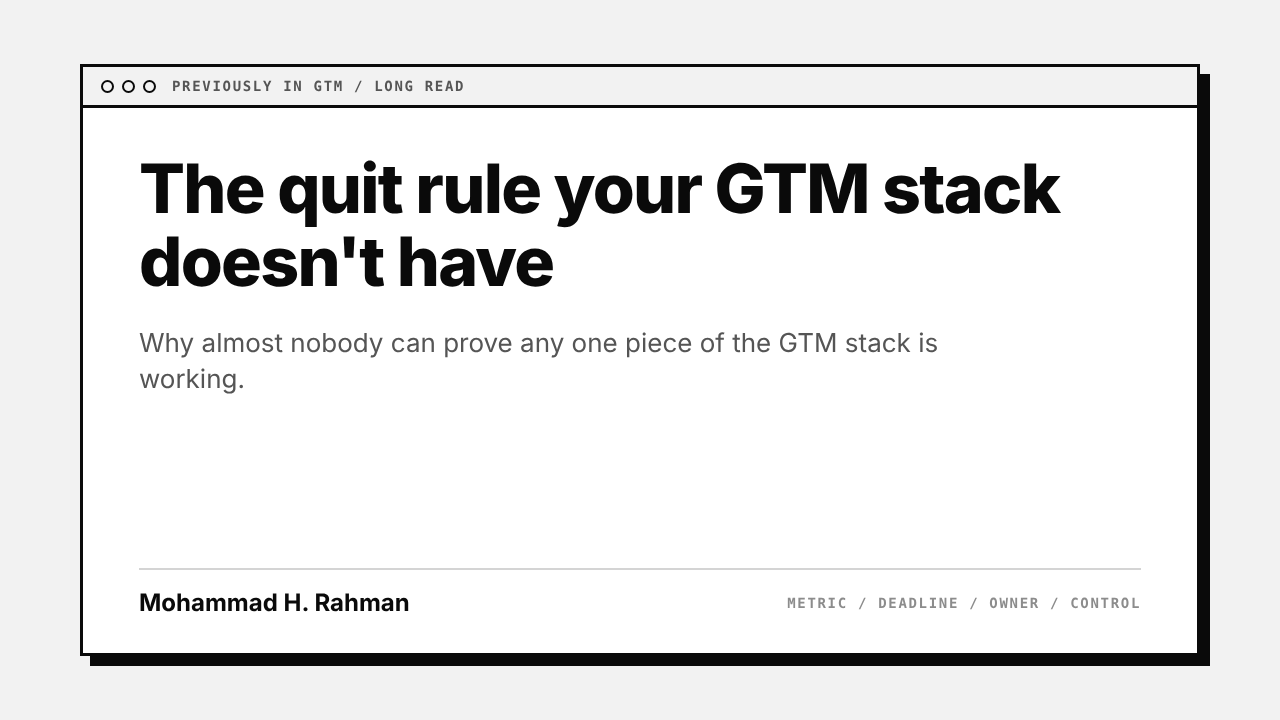
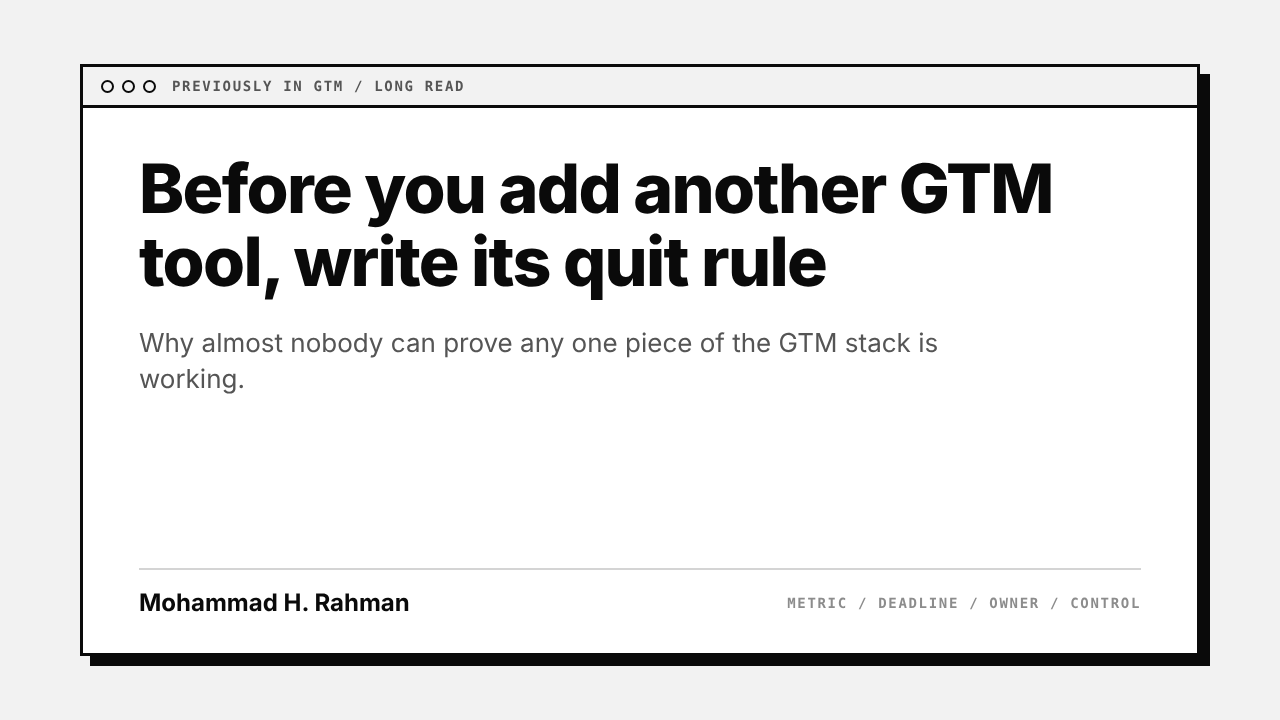
Retitle 26 Nov 2026 draft for clarity
Changed the headline from "The quit rule your GTM stack doesn't have"
to "Before you add another GTM tool, write its quit rule" so the topic
is clear at a glance, per Mohammad's request. Updated the article,
LinkedIn HTML, issue.json, image manifest and review notes, and
rebuilt the header cover and front cover PNGs.

Claude-Session: https://claude.ai/code/session_01MJgHR7mdmb77gDGypKETgY

Changed region(s): [[0.0938, 0.2139, 0.8438, 0.4278]]

diff --git a/newsletter-drafts/2026-11-26/design-bw/newsletter-bw.html b/newsletter-drafts/2026-11-26/design-bw/newsletter-bw.html
@@ -44,10 +44,10 @@ figure img{display:block;width:100%;height:auto;background:#fff}
 <div class="wrap">
 <div class="mast"><div class="top"><span class="dots"><i></i><i></i><i></i></span><span class="mono">newsletter / long read</span></div>
 <div class="name">PREVIOUSLY IN GTM</div><div class="tag">A weekly read for founders, GTM leaders and growth marketers.</div></div>
-<h1 id="headline">The quit rule your GTM stack doesn't have</h1>
+<h1 id="headline">Before you add another GTM tool, write its quit rule</h1>
 <p class="stand">A long read on why the GTM stack keeps growing, why almost nobody can prove any one piece of it is working, and the one discipline brand marketing already built that tooling hasn't borrowed yet.</p>
 <div class="by mono"><span>By Mohammad H. Rahman &nbsp;|&nbsp; 26 Nov 2026</span></div>
-<article id="art"><p><em>[IMAGE 1: header-cover.png, Cover: The quit rule your GTM stack doesn't have, black type on white with a window bar]</em></p>
+<article id="art"><p><em>[IMAGE 1: header-cover.png, Cover: Before you add another GTM tool, write its quit rule, black type on white with a window bar]</em></p>
 
 <p><em>A long read on why the GTM stack keeps growing, why almost nobody can prove any one piece of it is working, and the one discipline brand marketing already built that tooling hasn't borrowed yet.</em></p>
 

diff --git a/newsletter-drafts/2026-11-26/design-bw/images/src/cover.html b/newsletter-drafts/2026-11-26/design-bw/images/src/cover.html
@@ -15,7 +15,7 @@ h1{font-size:68px;line-height:1.08;font-weight:800;letter-spacing:-.025em;max-wi
 .by{position:absolute;left:56px;bottom:36px;right:56px;display:flex;justify-content:space-between;align-items:center;border-top:2px solid var(--g2);padding-top:18px}
 .by b{font-size:24px}
 </style></head><body><div class="win"><div class="bar"><div class="dots"><i></i><i></i><i></i></div><span class="mono" style="color:var(--g4)">PREVIOUSLY IN GTM / long read</span></div>
-<div class="in"><h1>The quit rule your GTM stack doesn't have</h1>
+<div class="in"><h1>Before you add another GTM tool, write its quit rule</h1>
 <div class="sub">Why almost nobody can prove any one piece of the GTM stack is working.</div>
 <div class="by"><b>Mohammad H. Rahman</b><span class="mono" style="color:var(--g3)">Metric / Deadline / Owner / Control</span></div></div></div>
 </body></html>

diff --git a/newsletter-drafts/2026-11-26/design-bw/images/src/header-cover.html b/newsletter-drafts/2026-11-26/design-bw/images/src/header-cover.html
@@ -11,6 +11,6 @@ h1{font-size:84px;line-height:1.06;font-weight:800;letter-spacing:-.03em;max-wid
 .by{position:absolute;left:56px;right:56px;bottom:28px;display:flex;justify-content:space-between;align-items:center;border-top:3px solid var(--k);padding-top:16px}
 .by b{font-size:24px}
 </style></head><body><div class="win"><div class="bar"><div class="dots"><i></i><i></i><i></i></div><span class="mono" style="color:var(--k)">PREVIOUSLY IN GTM</span></div>
-<div class="in"><h1>The quit rule your GTM stack doesn't have</h1>
+<div class="in"><h1>Before you add another GTM tool, write its quit rule</h1>
 <div class="by"><b>Mohammad H. Rahman</b><span class="mono" style="color:var(--g4)">26 Nov 2026</span></div></div></div>
 </body></html>

diff --git a/newsletter-drafts/2026-11-26/design-bw/images/src/header-cover@2x.html b/newsletter-drafts/2026-11-26/design-bw/images/src/header-cover@2x.html
@@ -11,6 +11,6 @@ h1{font-size:84px;line-height:1.06;font-weight:800;letter-spacing:-.03em;max-wid
 .by{position:absolute;left:56px;right:56px;bottom:28px;display:flex;justify-content:space-between;align-items:center;border-top:3px solid var(--k);padding-top:16px}
 .by b{font-size:24px}
 </style></head><body><div class="win"><div class="bar"><div class="dots"><i></i><i></i><i></i></div><span class="mono" style="color:var(--k)">PREVIOUSLY IN GTM</span></div>
-<div class="in"><h1>The quit rule your GTM stack doesn't have</h1>
+<div class="in"><h1>Before you add another GTM tool, write its quit rule</h1>
 <div class="by"><b>Mohammad H. Rahman</b><span class="mono" style="color:var(--g4)">26 Nov 2026</span></div></div></div>
 </body></html>

diff --git a/newsletter-drafts/2026-11-26/03-article-linkedin.html b/newsletter-drafts/2026-11-26/03-article-linkedin.html
@@ -1,6 +1,6 @@
 <p><strong>DRAFT: pending Remmy review</strong></p>
 
-<p><em>[IMAGE 1: header-cover.png, Cover: The quit rule your GTM stack doesn't have, black type on white with a window bar]</em></p>
+<p><em>[IMAGE 1: header-cover.png, Cover: Before you add another GTM tool, write its quit rule, black type on white with a window bar]</em></p>
 
 <p><em>A long read on why the GTM stack keeps growing, why almost nobody can prove any one piece of it is working, and the one discipline brand marketing already built that tooling hasn't borrowed yet.</em></p>
 

diff --git a/newsletter-drafts/2026-11-26/05-review-notes.md b/newsletter-drafts/2026-11-26/05-review-notes.md
@@ -42,6 +42,7 @@
 The paragraph beginning "None of this requires new software" in "The missing mechanism" section leans hardest on the article's own synthesis rather than a reported fact: it asserts that a quit rule "costs nothing to write" and that the barrier "was never technical," which is an editorial claim, not something any source states. It is clearly framed as the author's own argument rather than attributed to a newsletter, so it should not mislead, but it is the thinnest-sourced paragraph in the piece.
 
 ## Alternative titles
+Title changed after first draft, from "The quit rule your GTM stack doesn't have" (43 characters) to "Before you add another GTM tool, write its quit rule" (52 characters), for clarity on what the piece is about. Two further alternatives considered:
 1. Your GTM stack needs a control group (33 characters)
 2. Measure it before you keep it (28 characters)
 
@@ -70,7 +71,7 @@ The paragraph beginning "None of this requires new software" in "The missing mec
 - [x] Collected from the label only, read all editorial threads in full, skip list given with reasons
 - [x] 01-signal-map.md with newsletter and email counts, themes in three or more sources, one underrated idea, one contradiction, three candidate angles with payoffs, one pick with justification
 - [x] Stress test against a sceptical GTM operator, with the two strongest rejected angles shown and why they lost
-- [x] 02-article.md, long-form, about 1,900 words of body text before the sources list; title 43 characters; one-sentence standfirst; byline exactly "By Mohammad H. Rahman" with no title, company or designation; opens with a bold declarative statement then a hook
+- [x] 02-article.md, long-form, about 1,900 words of body text before the sources list; title 52 characters; one-sentence standfirst; byline exactly "By Mohammad H. Rahman" with no title, company or designation; opens with a bold declarative statement then a hook
 - [x] "What this means for your next quarter" with three actions; "Sources and further reading" linking each newsletter used; a memorable final line, then one question inviting comment; 7 hashtags
 - [x] Numbers marked "(per [Newsletter])"; two direct quotes total, each under 15 words, one per source, each attributed; original "View this post on the web" or stated post URLs used for every linked source
 - [x] 03-article-linkedin.html uses only h2, p, strong, em, ul, li, a (no h3, ol or blockquote needed this issue); no inline CSS or scripts; the title is not inside the HTML file; the image marker is an italic placeholder paragraph

diff --git a/newsletter-drafts/2026-11-26/04-image-manifest.md b/newsletter-drafts/2026-11-26/04-image-manifest.md
@@ -6,8 +6,8 @@ All images are built by `tools/newsletter-design/build.py` from `issue.json`, in
 
 | Filename | Dimensions | Placement | Alt text | Caption |
 |---|---|---|---|---|
-| header-cover.png | 1280x720 | Top of article (IMAGE 1) and LinkedIn cover image | PREVIOUSLY IN GTM cover: The quit rule your GTM stack doesn't have, by Mohammad H. Rahman, 26 Nov 2026 | Plain header cover: masthead, title, byline and date only. |
-| header-cover-2x.png | 2560x1440 | High resolution version of the header cover, for retina display and the review page | PREVIOUSLY IN GTM cover: The quit rule your GTM stack doesn't have, by Mohammad H. Rahman, 26 Nov 2026 | 2x render of the header cover. |
+| header-cover.png | 1280x720 | Top of article (IMAGE 1) and LinkedIn cover image | PREVIOUSLY IN GTM cover: Before you add another GTM tool, write its quit rule, by Mohammad H. Rahman, 26 Nov 2026 | Plain header cover: masthead, title, byline and date only. |
+| header-cover-2x.png | 2560x1440 | High resolution version of the header cover, for retina display and the review page | PREVIOUSLY IN GTM cover: Before you add another GTM tool, write its quit rule, by Mohammad H. Rahman, 26 Nov 2026 | 2x render of the header cover. |
 | insight-card.png | 1200x628 | Embedded in the review page design set, referenced from "The one number almost nobody will publish" | Stat card: 31.5%, the top band hit rate one vendor published for its own account scoring model | By the numbers: 31.5% true accuracy, the one figure a vendor published for how often its top scoring band actually converts, per GTM Tool Time citing Demandbase. |
 | quote-card.png | 1200x628 | Embedded in the review page design set, referenced from "What brand marketing already solved" | Quote card: You know it when you see it in the data, attributed to Kelly Megel via Cannonball GTM | Worth pinning above your desk: Kelly Megel's line on proving brand spend worked, from her Cannonball GTM episode on the Brand Spend Ledger. |
 | framework.png | 1200x628 | Embedded in the review page design set, referenced from "The missing mechanism" | Diagram: four parts of a quit rule, Metric, Deadline, Owner and Control, each with the question to ask before signing | Four things every quit rule needs, in order: Metric, Deadline, Owner, Control. |

diff --git a/newsletter-drafts/2026-11-26/02-article.md b/newsletter-drafts/2026-11-26/02-article.md
@@ -1,8 +1,8 @@
 **DRAFT: pending Remmy review**
 
-[IMAGE 1: header-cover.png, Cover: The quit rule your GTM stack doesn't have, black type on white with a window bar]
+[IMAGE 1: header-cover.png, Cover: Before you add another GTM tool, write its quit rule, black type on white with a window bar]
 
-# The quit rule your GTM stack doesn't have
+# Before you add another GTM tool, write its quit rule
 
 *A long read on why the GTM stack keeps growing, why almost nobody can prove any one piece of it is working, and the one discipline brand marketing already built that tooling hasn't borrowed yet.*
 
